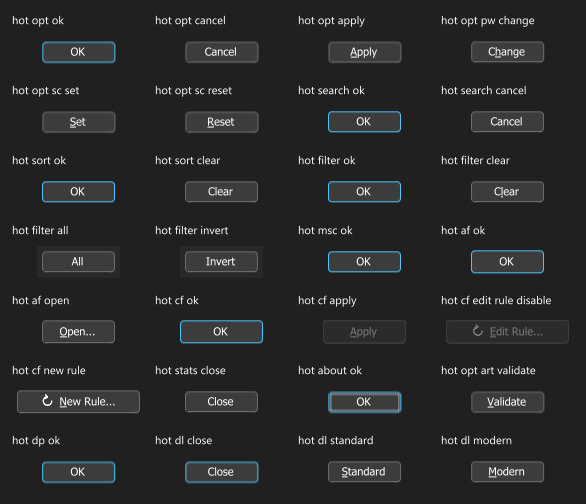
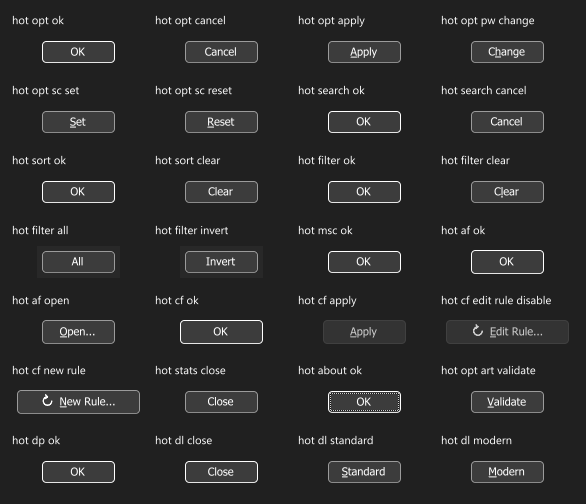
looks: the Windows dark button ring, face and focus rectangle read from the native Windows 11 dark captures
The dark button was the light ring tables run through a grey curve. It now paints the DarkMode button as captured
(docs/ui/looks/ref/windows-native/dark/button-*): the #9B9B9B line, bottom shadow row and corner cells of rest, default (white),
disabled (#404040) and pressed (#666666 face), baked by scripts/gen_winnative.py into e.ui.winnative, and the one pixel dotted
focus rectangle two pixels inside the box. A focused plain button keeps its grey ring as the native one does; disabled
label and face follow the capture. Light is untouched.

diff --git a/scripts/gen_winnative.py b/scripts/gen_winnative.py
@@ -1,0 +1,59 @@
+# Generates lib/e/ui/winnative.e: pixel tables read from the native Windows 11 captures in
+# docs/ui/looks/ref/windows-native (round 10). Run: python -I scripts/gen_winnative.py  (from the repository root).
+# The Windows dark look paints its button ring, marks and edit chrome from these tables; edit this script, not the output.
+import sys, os
+from PIL import Image, ImageChops
+ROOT = os.path.dirname(os.path.dirname(os.path.abspath(__file__))).replace(chr(92), '/')
+REF = ROOT + '/docs/ui/looks/ref/windows-native/'
+
+
+def load(theme, name):
+    return Image.open(REF + f'{theme}/{name}@1x.png').convert('RGB')
+
+
+def trim(im):
+    bg = im.getpixel((0, 0))
+    d = ImageChops.difference(im, Image.new('RGB', im.size, bg)).convert('L').point(lambda v: 255 if v > 6 else 0)
+    b = d.getbbox()
+    return im.crop(b), b
+
+
+def u(p):
+    return '0x%02X%02X%02X%02Xu32' % (255, p[0], p[1], p[2])
+
+
+def fn_table(name, ty, values):
+    return 'fn %s() -> %s { ret %s{ %s } }' % (name, ty, ty, ', '.join(values))
+
+
+sections = []
+
+
+# ---- button ring: kinds 0 rest, 1 default, 2 disabled, 3 pressed (dark) ----
+def ring_section():
+    kinds = [('button-rest', 0), ('button-default', 1), ('button-disabled', 2), ('button-pressed', 3)]
+    lines = ['// The dark button ring (native DarkMode button, 108 x 30 visible box): per kind the top-left 6 x 6 corner then the bottom-left one,',
+             '// the right corners mirror them. Colours: ring line, bottom shadow row, face.']
+    for nm, k in kinds:
+        t, _ = trim(load('dark', nm))
+        w, h = t.size
+        tl = [t.getpixel((i, j)) for j in range(6) for i in range(6)]
+        bl = [t.getpixel((i, h - 6 + j)) for j in range(6) for i in range(6)]
+        line = t.getpixel((w // 2, 0))
+        shadow = t.getpixel((w // 2, h - 1))
+        face = t.getpixel((w // 2, 3))
+        lines.append(fn_table('nring_corners_%d' % k, '[72]u32', [u(p) for p in tl + bl]))
+        lines.append('fn nring_line_%d() -> u32 { ret %s }' % (k, u(line)))
+        lines.append('fn nring_shadow_%d() -> u32 { ret %s }' % (k, u(shadow)))
+        lines.append('fn nring_face_%d() -> u32 { ret %s }' % (k, u(face)))
+    return '\n'.join(lines)
+
+
+sections.append(ring_section())
+
+header = '''// GENERATED by scripts/gen_winnative.py from docs/ui/looks/ref/windows-native: pixel tables of the native Windows 11
+// controls (round 10). A value is 0xAARRGGBB. Edit the script, not this file.
+
+'''
+open(ROOT + '/lib/e/ui/winnative.e', 'w', encoding='utf-8', newline='\n').write(header + '\n\n'.join(sections) + '\n')
+print('written')
